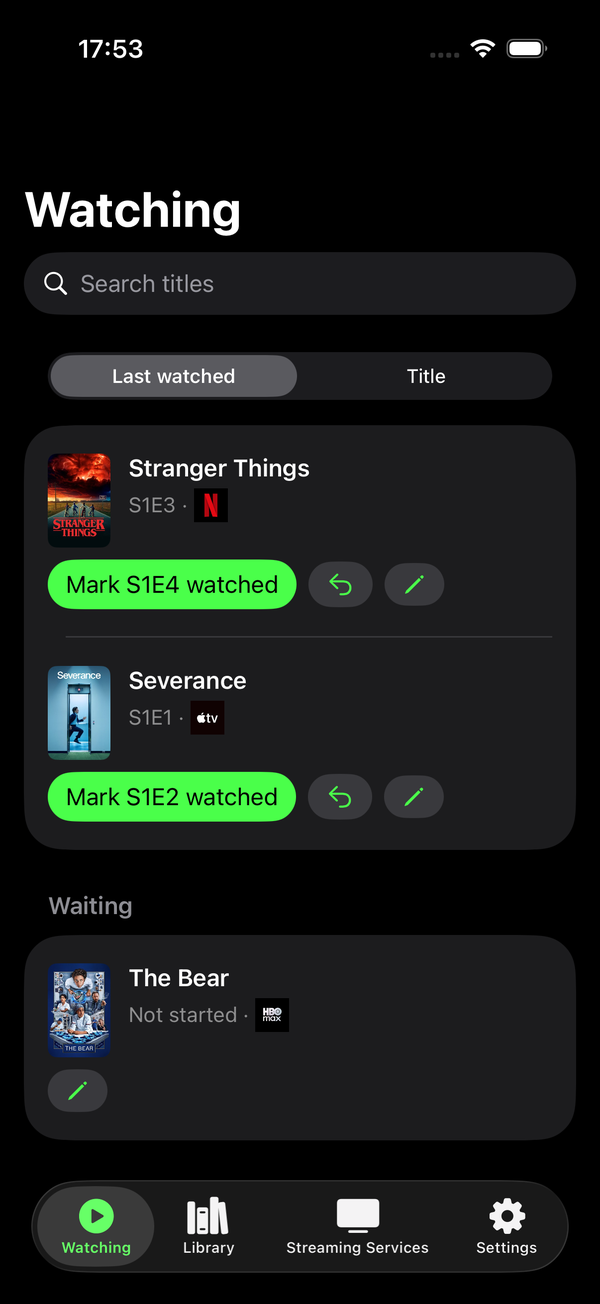
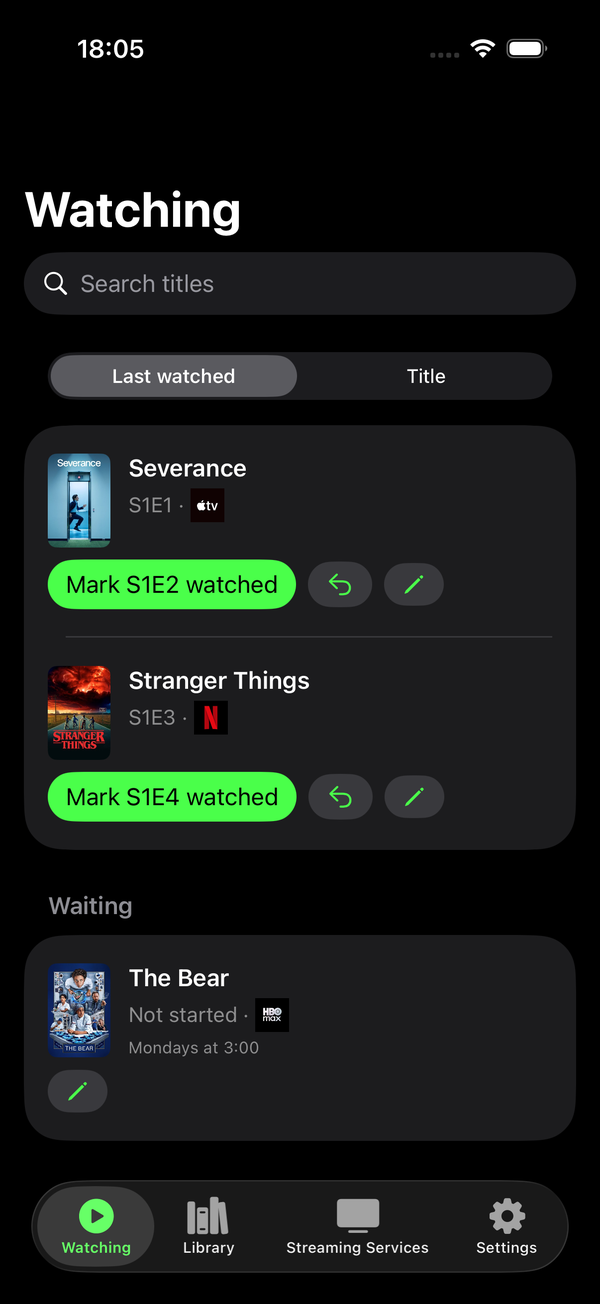
Let the screenshots show a Release Slot (#105)
The Bear now says it lands Mondays at 3:00, so the Watching tab's Waiting
listing shows the thing ADR-0016 is about: a series says the week's pattern and
the row repeats it, rather than counting down to an occurrence worked out from
today. The Library shot is retaken with it too, since a series row there draws
the same Next Episode Line. Both captions say what the line is.

Getting it needed one thing worth writing down: a SwiftUI Toggle ignores an
instant `idb ui tap` wherever on the row it lands, and reports AXValue 0
afterwards — `--duration 0.15` flips it. That is why two earlier attempts at
this left every toggle off. The time came from dragging the wheel picker seven
rows, slowly enough to track the drag rather than flick, hours wrapping 20 to
03 the short way.

Claude-Session: https://claude.ai/code/session_0143AUVnW7wMydVhjwwZCtDS

diff --git a/README.md b/README.md
@@ -17,14 +17,14 @@ already added keeps working.
 
 <table>
   <tr>
-    <td width="25%"><img src="docs/screenshots/watching.png" alt="The Watching tab: two series in progress with their positions, and one waiting" /></td>
-    <td width="25%"><img src="docs/screenshots/library.png" alt="The Library tab: three series and a movie, each with its status and streaming service" /></td>
+    <td width="25%"><img src="docs/screenshots/watching.png" alt="The Watching tab: two series in progress with their positions, and one waiting that lands Mondays at 3:00" /></td>
+    <td width="25%"><img src="docs/screenshots/library.png" alt="The Library tab: three series and a movie, each with its status, streaming service and when it is next back" /></td>
     <td width="25%"><img src="docs/screenshots/search.png" alt="A series' details from a search: poster, overview and every season with its episode count" /></td>
     <td width="25%"><img src="docs/screenshots/streaming-services.png" alt="The Streaming Services tab: three registered services with their logos and entry counts" /></td>
   </tr>
   <tr>
-    <td><b>Watching</b> — what is on the go, in an order that is yours and held still, with the next episode one tap away. Below it, what you are waiting on.</td>
-    <td><b>Library</b> — everything you track, series and movies together, each saying where it stands and what you watch it on.</td>
+    <td><b>Watching</b> — what is on the go, in an order that is yours and held still, with the next episode one tap away. Below it, what you are waiting on, and when it is due: a series can say it lands Mondays at 3:00 and the row says so rather than counting down.</td>
+    <td><b>Library</b> — everything you track, series and movies together, each saying where it stands, what you watch it on, and when the next episode is due.</td>
     <td><b>Search</b> — the one thing that needs a network. What you copy from it is yours to edit; nothing links back.</td>
     <td><b>Streaming Services</b> — the services you have registered, with the logos adopted onto them and how much each one carries.</td>
   </tr>
